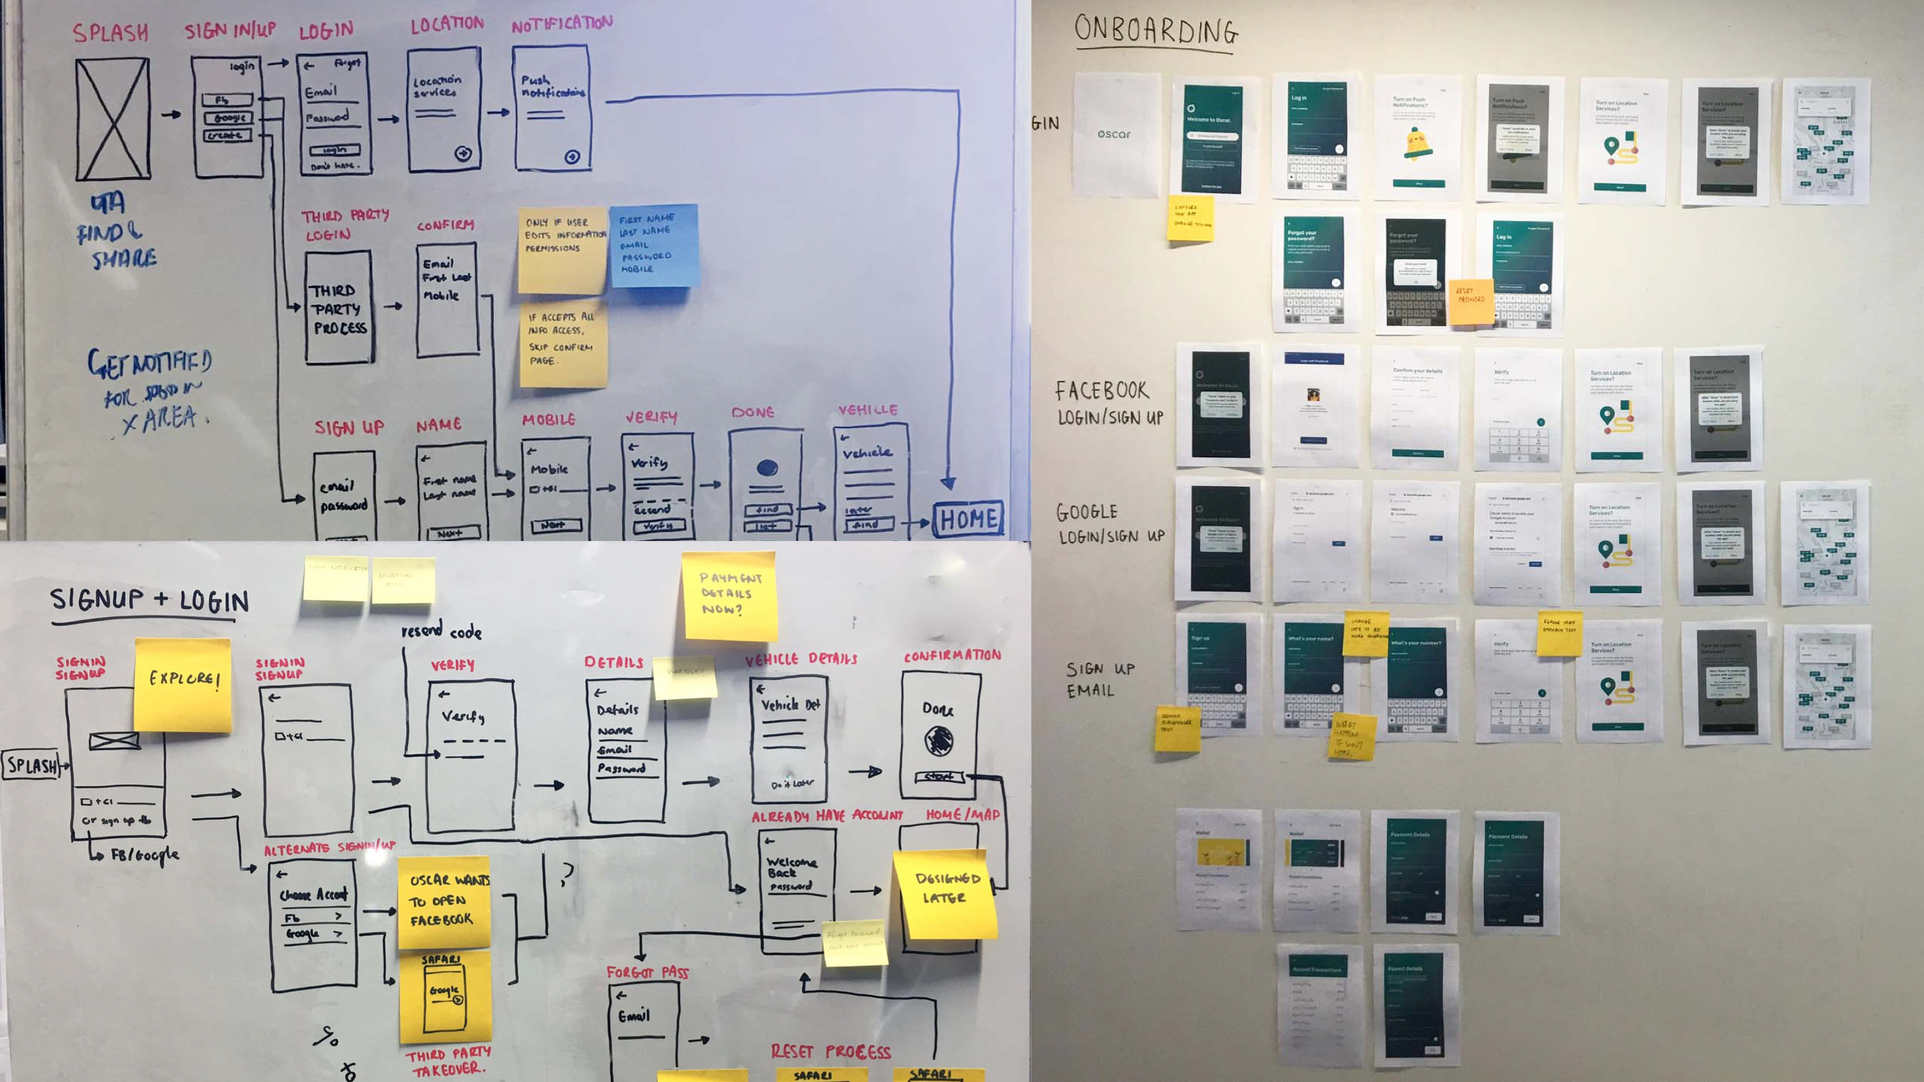
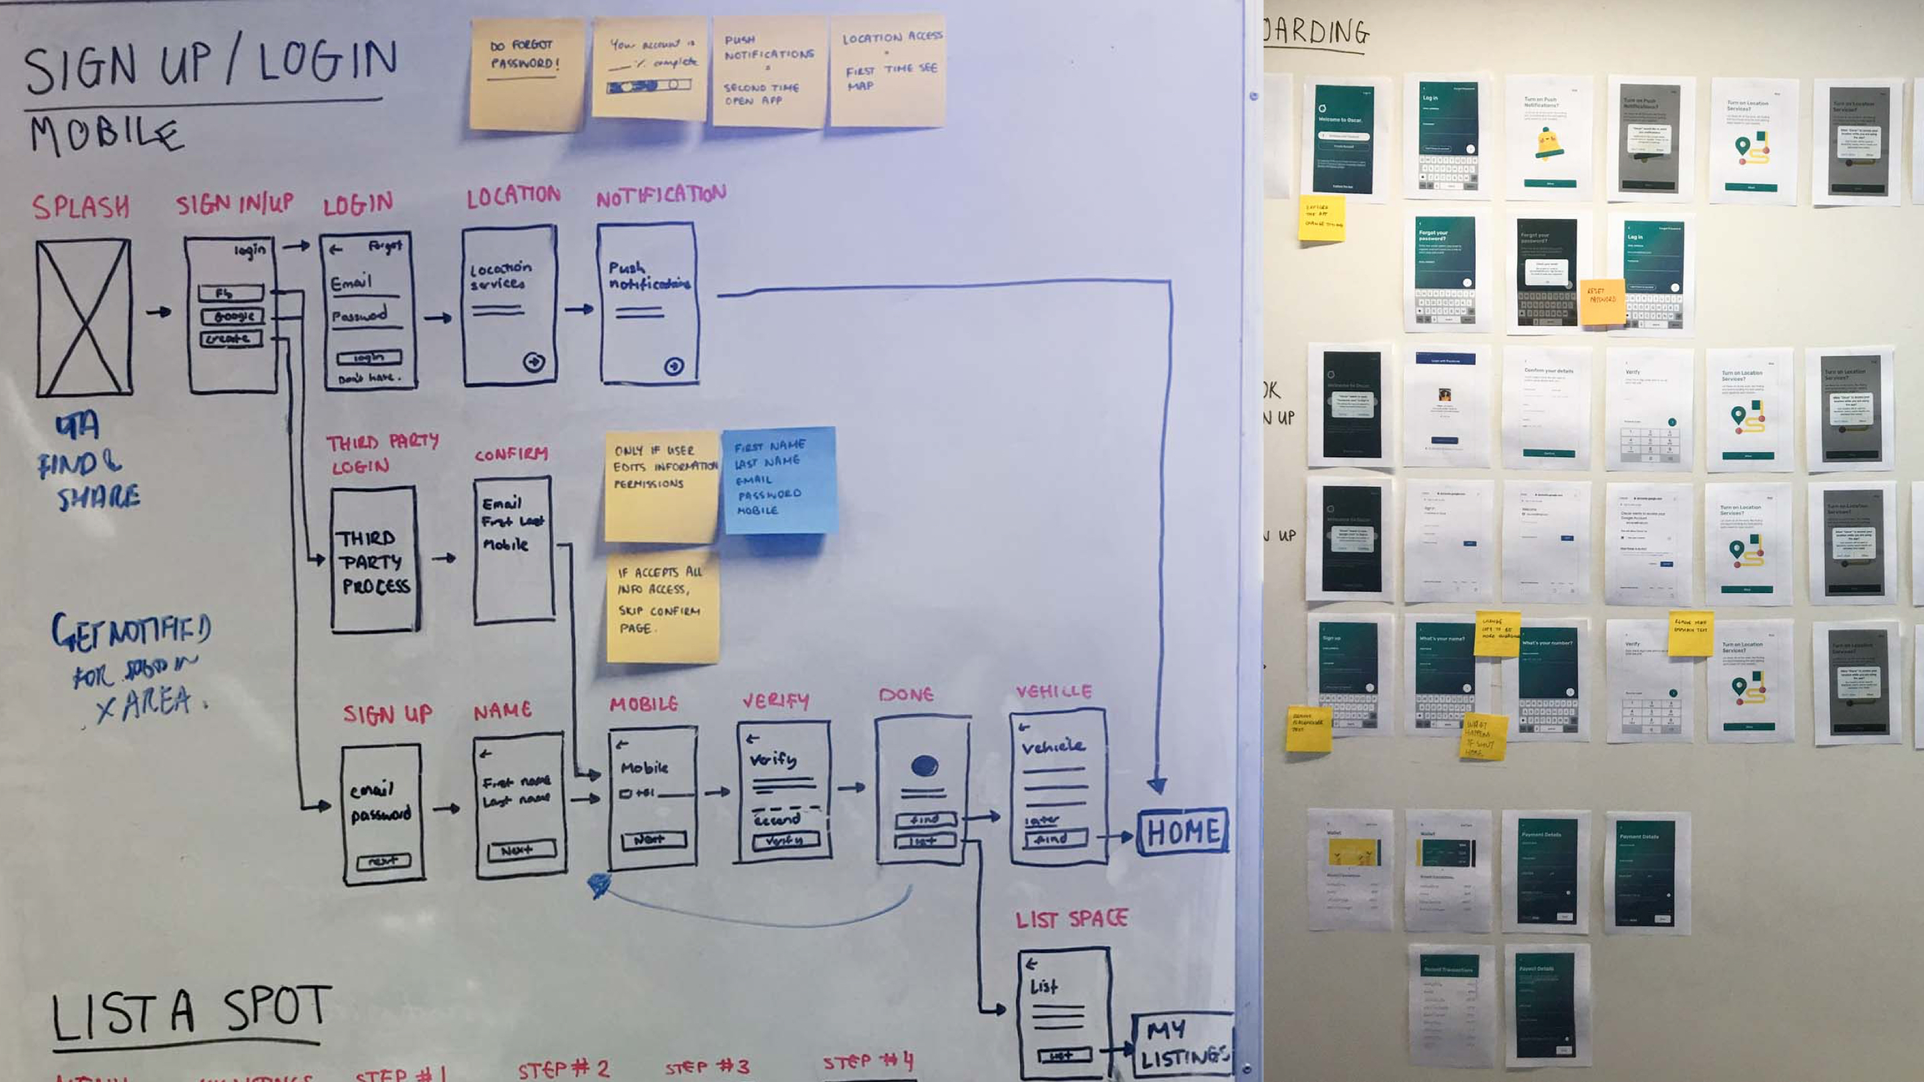
added m images to oscar case study

diff --git a/_site/oscar/index.html b/_site/oscar/index.html
@@ -103,12 +103,10 @@
   <p>As a sole UX designer on this effort, I joined a team of 2 developers and a project manager to create a vision for sharing experiences of the future all in under 3 short months.</p>
 </div>
 
-<div class="center w-100 w-100-m w-60-ns">
+<div class="center w-100 w-100-m w-60-ns mb5">
   <h2>Picking up the Pieces</h2>
   <p>Besides heuristic analysis and initial chats with the team, I had little insight into where—within the product—usability issues were arising from. I began speaking to stakeholders at Oscar to learn about the business and the product goals. These interviews helped in learning about previous research, determining the scope for the project and to better understand the opportunity for the redesign.</p>
 </div>
-
-<p><img src="../assets/images/site/grey.jpg" alt="Stakeholder interviews" /></p>
 
 <div class="center w-100 w-100-m w-60-ns">
   <h2>Learning from the Users</h2>
@@ -153,11 +151,13 @@
   </blockquote>
 
   <p>What was most alarming, aside from the drop-off rates, was that users often bounced back between Sign Up and Log In buttons, attempting each method until they found the one that would end in success. Coupled with a set of unsupportive error messages that pointed out user mistakes rather than supportive directives to help the user solve the issue, most users would resort to resetting their password in order to access their account, a lengthy process in its own right.</p>
-
-  <p>This debacle resulted in higher error rates, lower conversion rates, increased churn and an overall bumpy entry-point into the app. Users assumed that if it was this difficult to get into the meat of the product, booking/listing their parking spot would be even bigger headache.</p>
 </div>
 
-<p><img src="../assets/images/site/grey.jpg" alt="The problematic onboarding user flow" /></p>
+<p><img src="../assets/images/oscar/oscar_onboard_usecase.jpg" alt="The problematic onboarding user flow" /></p>
+
+<div class="center w-100 w-100-m w-60-ns mb5">
+  <p>This debacle resulted in higher error rates, lower conversion rates, increased churn and an overall bumpy entry-point into the app. Users assumed that if it was this difficult to get into the meat of the product, booking/listing their parking spot would be even bigger headache.</p>
+</div>
 
 <div class="center w-100 w-100-m w-60-ns">
   <h3>Searching for a Spot</h3>
@@ -234,7 +234,7 @@
   <h2>Giving users quick access to their account</h2>
   <p>Understanding why users were confused between Sign Up and Log In was a challenge on its own.</p>
 
-  <p>My first hypothesis was that there wasn’t a clear division between Sign Up and Log in as the terminology for these buttons wasnʼt quite right. So I experimented with new UIs that did just that but to my surprise, this had no benefit… new and existing users still occasionally switched between the two.</p>
+  <p>My first hypothesis was that there wasn’t a clear division between Sign Up and Log in as the terminology for these buttons wasn’t quite right. So I experimented with new UIs that did just that but to my surprise, this had no benefit… new and existing users still occasionally switched between the two.</p>
 </div>
 
 <p><img src="../assets/images/oscar/oscar_onboard_experiment.jpg" alt="First instinct was to change the terminology" /></p>
@@ -255,28 +255,32 @@
    <img class="cap" alt="The evolution of the onboarding flow" src="../assets/images/oscar/oscar_evolution_onboarding.jpg" />
    <p class="caption-between light">Going back to the drawing board.</p>
 
-   <img class="cap" alt="Onboarding testing feedback" src="../assets/images/site/grey.jpg" />
-   <p class="caption light">The evolution of the onboarding flow.</p>
+   <img class="cap" alt="The evolution of the onboarding flow" src="../assets/images/oscar/oscar_evolution_onboarding_mobile.jpg" />
+   <p class="caption-between light">Experimenting with removing divisions of Sign Up and Login.</p>
 </div>
 
 <div class="center w-100 w-100-m w-60-ns">
-  <p>The new proposed onboarding flow works by removing concrete decisions between Sign Up and Login and asks the user upfront for an easily recallable piece of information: a mobile number. Central to this feature, were these key ideas:</p>
+  <p>The new proposed onboarding flow works by removing concrete decisions between Sign Up and Login and asks the user upfront for an easily recallable piece of information: a mobile number. After the mobile number is provided, the product would then intelligently determine if this information exists in its database and then discreetly deliver the remaining flow custom to the user’s circumstance.</p>
+
+  <p>Central to this feature, were these key ideas:</p>
   <ol>
     <li>Stop relying on user recall. Do the heavy lifting for them.</li>
     <li>Establish the feeling of support as early as early as possible.</li>
     <li>Ask as little questions as possible. Get users sharing as soon as you can.</li>
   </ol>
-
-  <p>After the mobile number is provided, the product would then intelligently determine if this information exists in its database and then discreetly deliver the remaining flow custom to the user’s circumstance.</p>
 </div>
 
-<p><img src="../assets/images/site/grey.jpg" alt="" /></p>
+<p><img src="../assets/images/oscar/oscar_new_onboard.jpg" alt="The new onboarding flow" /></p>
 
 <div class="center w-100 w-100-m w-60-ns">
   <p>To get new users up and going as soon as possible and creating a lower barrier to entry, I experimented with delaying additional information that the user would need to input (such as vehicle registration and account verification) until deeper in the user journey, such as booking or listing a spot. Once a user has found a spot that they’d like to book or list, spending an extra minute to confirm details is as much of a friction point.</p>
 </div>
 
-<p><img src="../assets/images/site/grey.jpg" alt="" /></p>
+<div class="mb5">
+   <img class="cap" alt="Friction versus motivation" src="../assets/images/oscar/oscar_friction.jpg" />
+   <p class="caption-between light">Friction versus motivation.</p>
+   <img class="cap" alt="Utilising friction and motivation" src="../assets/images/oscar/oscar_friction_profile.jpg" />
+</div>
 
 <div class="center w-100 w-100-m w-60-ns mb5">
   <p>Fearing that the fundamentally new onboarding flow would cause friction of its own, I began testing early stages of the designs as soon as possible. To my surprise, not a single participant had trouble with the sequencing of the new flow and the design resonated well with participants.</p>
@@ -291,7 +295,11 @@
   <p>Early explorations of the new search screen played around with depth and scale.</p>
 </div>
 
-<p><img src="../assets/images/oscar/oscar_search_sketches.jpg" alt="" /></p>
+<div class="mb5">
+   <img class="cap" alt="Search bar sketches" src="../assets/images/oscar/oscar_search_sketches.jpg" />
+
+   <img class="cap" alt="Final search bar design" src="../assets/images/oscar/oscar_new_home_map.jpg" />
+</div>
 
 <div class="center w-100 w-100-m w-60-ns">
   <p>The new search screen features a search bar floating on top of the map, creating a greater understanding of its function and importance. Whilst the map still takes up a majority of the screen real estate, it’s no longer the big star of the interface.</p>
@@ -303,18 +311,28 @@
   <p>Accelerators work by intelligently remembering how often a user visits a location and prompt the user to add the location to a list of saved places, asking simply for the name of the saved place.</p>
 </div>
 
+<div class="mb5">
+   <img class="cap" alt="Search bar sketches" src="../assets/images/oscar/oscar_search_tests.jpg" />
+
+   <img class="cap" alt="Final search bar design" src="../assets/images/oscar/oscar_accelerators_feature.jpg" />
+</div>
+
 <div class="center w-100 w-100-m w-60-ns">
   <h2>Listing</h2>
   <p>I hypothesised that breaking the listing flow into digestible chunks would result in increased excitement and further understanding of each section.</p>
 
   <p>Contextually chunking sections of the listing flow (like address, type, maximum fit) and embellishment sections (like description and photos) better aligned to the users mental model and decreased the amount of “huh?” and “what does this mean?!”</p>
+</div>
 
+<p><img src="../assets/images/oscar/oscar_listing_flow.jpg" alt="The new listing flow" /></p>
+
+<div class="center w-100 w-100-m w-60-ns">
   <p>In an effort to increase completion rates, I incorporated a progress bar helps users speed through the flow. By allowing our users to see how much longer they have left in the listing process, we can motivate those who contemplate dropping off early in the funnel.</p>
 
   <p>To combat the issue of incomplete spot listings, I introduced a draft spot listing feature whereby users can save and exit at any stage of the spot listing process. Not only does this save time of re-inputting information when the user chooses to list their spot but this feature opened the gates to prompts, utilising the completion rate data and introducing pop-ups triggered after incremental periods of time to assist the user to finish their listing and start earning.</p>
-
-  <p>Because our user behaviours exist on a spectrum of hands-off and complete control, it was essential to create design patterns that catered for these two behaviours. This meant the UI needed to inspire confidence for the majority but those who wanted to assert control, needed to know how to discover the feature.</p>
 </div>
+
+<p><img src="../assets/images/oscar/oscar_save_exit_draft.jpg" alt="Save and exit the listing process at any time" /></p>
 
 <div class="center w-100 w-100-m w-60-ns mb5">
   <h2>The Results</h2>
@@ -329,7 +347,7 @@
   <p><em>*For confidentiality reasons I have omitted the actual values for these metrics</em>.</p>
 </div>
 
-<div class="center w-100 w-100-m w-60-ns">
+<div class="center w-100 w-100-m w-60-ns mb6">
   <h2>What I learned</h2>
   <p>Looking back at the initial scribbles and sketches I made in my notebook during initial brainstorming sessions, I’m highly surprised at the amount of progress I was able to make.</p>
 
@@ -346,8 +364,6 @@
     <li>Make informed design decisions. Designers intuition is good starting point but it shouldn’t be the only reason for a design choice.</li>
   </ul>
 </div>
-
-<p><img src="../assets/images/site/grey.jpg" alt="" /></p>
 
    </div>
    <a class="u-url" href="/oscar/" hidden></a>

diff --git a/_posts/2017-5-22-oscar.md b/_posts/2017-5-22-oscar.md
@@ -42,12 +42,10 @@ The high level goals were to:
 As a sole UX designer on this effort, I joined a team of 2 developers and a project manager to create a vision for sharing experiences of the future all in under 3 short months.
 </div>
 
-<div class="{{ site.site-case-margin }}" markdown="1">
+<div class="{{ site.site-case-margin }} {{ site.site-case-break }}" markdown="1">
 ## Picking up the Pieces
 Besides heuristic analysis and initial chats with the team, I had little insight into where—within the product—usability issues were arising from. I began speaking to stakeholders at Oscar to learn about the business and the product goals. These interviews helped in learning about previous research, determining the scope for the project and to better understand the opportunity for the redesign.
 </div>
-
-![Stakeholder interviews](../assets/images/site/grey.jpg)
 
 <div class="{{ site.site-case-margin }}" markdown="1">
 ## Learning from the Users
@@ -87,11 +85,13 @@ The process included a monotonous sequence of input fields, some of which, provi
 {: {{site.site-case-quote}}}
 
 What was most alarming, aside from the drop-off rates, was that users often bounced back between Sign Up and Log In buttons, attempting each method until they found the one that would end in success. Coupled with a set of unsupportive error messages that pointed out user mistakes rather than supportive directives to help the user solve the issue, most users would resort to resetting their password in order to access their account, a lengthy process in its own right. 
-
-This debacle resulted in higher error rates, lower conversion rates, increased churn and an overall bumpy entry-point into the app. Users assumed that if it was this difficult to get into the meat of the product, booking/listing their parking spot would be even bigger headache.
 </div>
 
-![The problematic onboarding user flow](../assets/images/site/grey.jpg)
+![The problematic onboarding user flow](../assets/images/oscar/oscar_onboard_usecase.jpg)
+
+<div class="{{ site.site-case-margin }} {{ site.site-case-break }}" markdown="1">
+This debacle resulted in higher error rates, lower conversion rates, increased churn and an overall bumpy entry-point into the app. Users assumed that if it was this difficult to get into the meat of the product, booking/listing their parking spot would be even bigger headache.
+</div>
 
 <div class="{{ site.site-case-margin }}" markdown="1">
 ### Searching for a Spot
@@ -162,7 +162,7 @@ To jumpstart creativity, I came up with four key design challenges that revolved
 ## Giving users quick access to their account
 Understanding why users were confused between Sign Up and Log In was a challenge on its own.
 
-My first hypothesis was that there wasn't a clear division between Sign Up and Log in as the terminology for these buttons wasnʼt quite right. So I experimented with new UIs that did just that but to my surprise, this had no benefit… new and existing users still occasionally switched between the two.
+My first hypothesis was that there wasn't a clear division between Sign Up and Log in as the terminology for these buttons wasn't quite right. So I experimented with new UIs that did just that but to my surprise, this had no benefit… new and existing users still occasionally switched between the two.
 </div>
 
 ![First instinct was to change the terminology](../assets/images/oscar/oscar_onboard_experiment.jpg)
@@ -182,28 +182,31 @@ Based on this insight, I realised that simply modifying the error messages to be
    <img class="cap" alt="The evolution of the onboarding flow" src="../assets/images/oscar/oscar_evolution_onboarding.jpg">
    <p class="caption-between light">Going back to the drawing board.</p>
 
-   <img class="cap" alt="Onboarding testing feedback" src="../assets/images/site/grey.jpg">
-   <p class="caption light">The evolution of the onboarding flow.</p>
+   <img class="cap" alt="The evolution of the onboarding flow" src="../assets/images/oscar/oscar_evolution_onboarding_mobile.jpg">
+   <p class="caption-between light">Experimenting with removing divisions of Sign Up and Login.</p>
 </div>
 
-
-
 <div class="{{ site.site-case-margin }}" markdown="1">
-The new proposed onboarding flow works by removing concrete decisions between Sign Up and Login and asks the user upfront for an easily recallable piece of information: a mobile number. Central to this feature, were these key ideas:
+The new proposed onboarding flow works by removing concrete decisions between Sign Up and Login and asks the user upfront for an easily recallable piece of information: a mobile number. After the mobile number is provided, the product would then intelligently determine if this information exists in its database and then discreetly deliver the remaining flow custom to the user’s circumstance. 
+
+Central to this feature, were these key ideas:
 1. Stop relying on user recall. Do the heavy lifting for them.
 2. Establish the feeling of support as early as early as possible.
 3. Ask as little questions as possible. Get users sharing as soon as you can.
-
-After the mobile number is provided, the product would then intelligently determine if this information exists in its database and then discreetly deliver the remaining flow custom to the user’s circumstance. 
 </div>
 
-![](../assets/images/site/grey.jpg)
+![The new onboarding flow](../assets/images/oscar/oscar_new_onboard.jpg)
 
 <div class="{{ site.site-case-margin }}" markdown="1">
 To get new users up and going as soon as possible and creating a lower barrier to entry, I experimented with delaying additional information that the user would need to input (such as vehicle registration and account verification) until deeper in the user journey, such as booking or listing a spot. Once a user has found a spot that they’d like to book or list, spending an extra minute to confirm details is as much of a friction point.
 </div>
 
-![](../assets/images/site/grey.jpg)
+<div class="{{ site.site-case-break }}" markdown="0">
+   <img class="cap" alt="Friction versus motivation" src="../assets/images/oscar/oscar_friction.jpg">
+   <p class="caption-between light">Friction versus motivation.</p>
+   <img class="cap" alt="Utilising friction and motivation" src="../assets/images/oscar/oscar_friction_profile.jpg">
+</div>
+
 
 <div class="{{ site.site-case-margin }} {{ site.site-case-break }}" markdown="1">
 Fearing that the fundamentally new onboarding flow would cause friction of its own, I began testing early stages of the designs as soon as possible. To my surprise, not a single participant had trouble with the sequencing of the new flow and the design resonated well with participants.
@@ -218,7 +221,11 @@ My first hypothesis on why this screen was causing so many issues was that the s
 Early explorations of the new search screen played around with depth and scale.
 </div>
 
-![](../assets/images/oscar/oscar_search_sketches.jpg)
+<div class="{{ site.site-case-break }}" markdown="0">
+   <img class="cap" alt="Search bar sketches" src="../assets/images/oscar/oscar_search_sketches.jpg">
+
+   <img class="cap" alt="Final search bar design" src="../assets/images/oscar/oscar_new_home_map.jpg">
+</div>
 
 <div class="{{ site.site-case-margin }}" markdown="1">
 The new search screen features a search bar floating on top of the map, creating a greater understanding of its function and importance. Whilst the map still takes up a majority of the screen real estate, it’s no longer the big star of the interface.
@@ -230,18 +237,28 @@ To further accelerate bookings and cater for the 80% of users that make repeat b
 Accelerators work by intelligently remembering how often a user visits a location and prompt the user to add the location to a list of saved places, asking simply for the name of the saved place.
 </div>
 
+<div class="{{ site.site-case-break }}" markdown="0">
+   <img class="cap" alt="Search bar sketches" src="../assets/images/oscar/oscar_search_tests.jpg">
+
+   <img class="cap" alt="Final search bar design" src="../assets/images/oscar/oscar_accelerators_feature.jpg">
+</div>
+
 <div class="{{ site.site-case-margin }}" markdown="1">
 ## Listing
 I hypothesised that breaking the listing flow into digestible chunks would result in increased excitement and further understanding of each section. 
 
 Contextually chunking sections of the listing flow (like address, type, maximum fit) and embellishment sections (like description and photos) better aligned to the users mental model and decreased the amount of “huh?” and “what does this mean?!”
+</div>
 
+![The new listing flow](../assets/images/oscar/oscar_listing_flow.jpg)
+
+<div class="{{ site.site-case-margin }}" markdown="1">
 In an effort to increase completion rates, I incorporated a progress bar helps users speed through the flow. By allowing our users to see how much longer they have left in the listing process, we can motivate those who contemplate dropping off early in the funnel.
 
 To combat the issue of incomplete spot listings, I introduced a draft spot listing feature whereby users can save and exit at any stage of the spot listing process. Not only does this save time of re-inputting information when the user chooses to list their spot but this feature opened the gates to prompts, utilising the completion rate data and introducing pop-ups triggered after incremental periods of time to assist the user to finish their listing and start earning.
-
-Because our user behaviours exist on a spectrum of hands-off and complete control, it was essential to create design patterns that catered for these two behaviours. This meant the UI needed to inspire confidence for the majority but those who wanted to assert control, needed to know how to discover the feature. 
 </div>
+
+![Save and exit the listing process at any time](../assets/images/oscar/oscar_save_exit_draft.jpg)
 
 <div class="{{ site.site-case-margin }} {{ site.site-case-break }}" markdown="1">
 ## The Results
@@ -254,7 +271,7 @@ The redesign of the Oscar app on iOS and Android has had a positive impact on bo
 **For confidentiality reasons I have omitted the actual values for these metrics*. 
 </div>
 
-<div class="{{ site.site-case-margin }}" markdown="1">
+<div class="{{ site.site-case-margin }} mb6" markdown="1">
 ## What I learned
 Looking back at the initial scribbles and sketches I made in my notebook during initial brainstorming sessions, I’m highly surprised at the amount of progress I was able to make.
 
@@ -270,5 +287,3 @@ Key takeaways
 - It’s important to give users choice but its also important to understand when choice is a barrier. 
 - Make informed design decisions. Designers intuition is good starting point but it shouldn’t be the only reason for a design choice.
 </div>
-
-![](../assets/images/site/grey.jpg)
